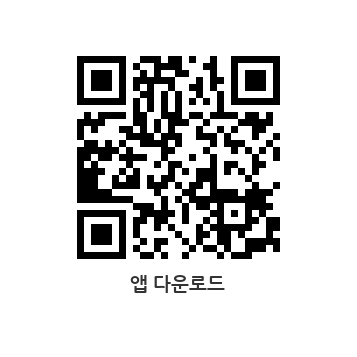
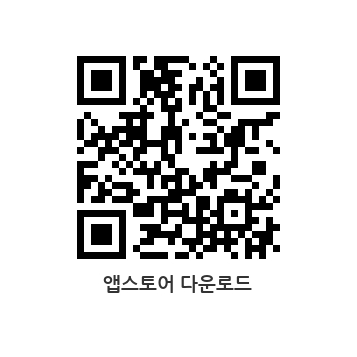
feat: 앱스토어 링크 추가

diff --git a/src/views/sections/Footer.jsx b/src/views/sections/Footer.jsx
@@ -35,7 +35,7 @@ function Footer() {
         <div>
           <StyledText style={{ fontWeight: '500' }}>현지야 앱 다운로드</StyledText>
           <span>
-            <StyledLink>
+            <StyledLink href="https://apps.apple.com/kr/app/%ED%98%84%EC%A7%80%EC%95%BC-heylocal/id1642791139">
               <img src={appStoreLogo} alt="appStoreLogo" />
             </StyledLink>
             {/*<StyledLink>
